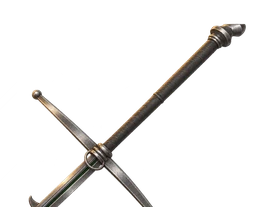
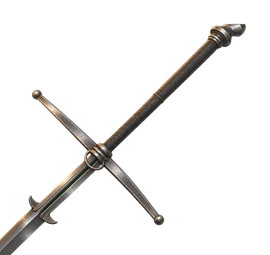
Painted pictures of our own parts on the part cards; taller type cards
- Every part card (blades, guards, grips, pommels, steel finishes and the
  Messer's caps) now shows that part alone, rendered from our own 3D
  model and painted in the style of the type cards. Guards are drawn per
  sword type. Grips and steel finishes are close-ups of the material;
  blades run out through the card's top-right corner with the point
  inside. They replace the line-drawn silhouettes.
- A dev-only part studio (?studio, not in the production build) renders
  each part alone for these pictures.
- Type cards are 16 px taller, so more of each sword shows; the camera
  leaves room for the taller row.

Changed region(s): [[0.0, 0.087, 0.9185, 1.0]]

diff --git a/src/components/forge/choices.tsx b/src/components/forge/choices.tsx
@@ -7,7 +7,7 @@ import { bladeSpec, profileSpec } from '../../lib/bladeSpec';
 import { POMMEL_FORM } from '../../presets/pommelProfiles';
 import { GUARDS_BY_TYPE } from '../../presets/guardShapes';
 import { HILT_OPTIONS, defaultTerminal, hiltSpec } from '../../lib/hilt';
-import { BladeSilhouette, CapSilhouette, GripSwatch, GuardSilhouette, PommelSilhouette, SteelSwatch } from './Silhouettes';
+import { PartArt } from './PartArt';
 
 // The choices offered at each station, as one model shared by the chooser, the inspector and the keyboard.
 
@@ -34,7 +34,7 @@ export function useStationChoices(station: StationId | null): StationChoices | n
   if (station === 'blade') {
     const profiles = profilesOf(config);
     cards = profiles.map((p) => ({ id: p.id, name: p.name, era: p.era, period: true, off: null, selected: (config.blade.profile ?? profiles[0].id) === p.id, note: p.note,
-      art: <BladeSilhouette archetype={arch} profile={p} />, apply: () => update('blade', profileBlade(p)) }));
+      art: <PartArt name={`blade-${arch}-${p.id}`} />, apply: () => update('blade', profileBlade(p)) }));
     // Options on top of the profile. A choice equal to the profile's own is stored as "not changed",
     // so the Form still reads as itself.
     const spec = bladeSpec(config), profile = currentProfile(config), own = profile ? profileSpec(arch, profile) : spec;
@@ -81,13 +81,13 @@ export function useStationChoices(station: StationId | null): StationChoices | n
       if (cur !== 'none') extraNote = `${extraNote} ${WIRE_INLAYS.find((w) => w.id === cur)?.note ?? ''}`.trim();
     }
     engraving('guard', !!config.guard.engraved);
-    cards = GUARDS.filter((g) => GUARDS_BY_TYPE[arch].includes(g.id)).sort((a, b) => GUARDS_BY_TYPE[arch].indexOf(a.id) - GUARDS_BY_TYPE[arch].indexOf(b.id)).map((g) => ({ ...g, period: ofForm(g, form?.guard), off: off(g, form?.guard), selected: config.guard.style === g.id, art: <GuardSilhouette archetype={arch} style={g.id} />, apply: () => update('guard', { style: g.id }) }));
+    cards = GUARDS.filter((g) => GUARDS_BY_TYPE[arch].includes(g.id)).sort((a, b) => GUARDS_BY_TYPE[arch].indexOf(a.id) - GUARDS_BY_TYPE[arch].indexOf(b.id)).map((g) => ({ ...g, period: ofForm(g, form?.guard), off: off(g, form?.guard), selected: config.guard.style === g.id, art: <PartArt name={`guard-${arch}-${g.id}`} />, apply: () => update('guard', { style: g.id }) }));
   }
   if (station === 'pommel' && config.grip.hilt === 'messer') {
     // A Messer has a cap over the grip's end instead of a pommel.
     const own = form?.cap ?? 'beak', cur = config.grip.cap ?? 'beak';
     cards = MESSER_CAPS.map((m) => ({ ...m, period: m.id === own || ofAge(m.years), off: form ? periodNote(m, form, own) : null, selected: cur === m.id,
-      art: <CapSilhouette cap={m.id} />, apply: () => update('grip', { cap: m.id === 'beak' ? undefined : m.id }) }));
+      art: <PartArt name={`cap-${m.id}`} />, apply: () => update('grip', { cap: m.id === 'beak' ? undefined : m.id }) }));
   } else if (station === 'pommel') {
     if (POMMEL_FORM[config.pommel.style].axis === 'z') {
       // The face: plain, engraved, or engraved with its cuts filled with enamel.
@@ -96,11 +96,11 @@ export function useStationChoices(station: StationId | null): StationChoices | n
         apply: () => update('pommel', { engraved: id === 'plain' ? undefined : true, enamel: id === 'azure' || id === 'gules' ? id : undefined }) })) });
       if (p.enamel) extraNote = `${extraNote} ${ENAMEL_NOTE}`.trim();
     }
-    cards = POMMELS.map((g) => ({ ...g, period: ofForm(g, form?.pommel), off: off(g, form?.pommel), selected: config.pommel.style === g.id, art: <PommelSilhouette style={g.id} />, apply: () => update('pommel', { style: g.id }) }));
+    cards = POMMELS.map((g) => ({ ...g, period: ofForm(g, form?.pommel), off: off(g, form?.pommel), selected: config.pommel.style === g.id, art: <PartArt name={`pommel-${g.id}`} />, apply: () => update('pommel', { style: g.id }) }));
   }
   if (station === 'grip') {
     // A Messer's grip is wooden scales, bare or leather-covered.
-    cards = GRIPS.filter((g) => config.grip.hilt !== 'messer' || g.id === 'wood' || g.id === 'leather').map((g) => ({ ...g, period: ofForm(g, form?.grip), off: off(g, form?.grip), selected: config.finish.gripMaterial === g.id, art: <GripSwatch material={g.id} color={config.finish.gripColor} />, apply: () => update('finish', { gripMaterial: g.id }) }));
+    cards = GRIPS.filter((g) => config.grip.hilt !== 'messer' || g.id === 'wood' || g.id === 'leather').map((g) => ({ ...g, period: ofForm(g, form?.grip), off: off(g, form?.grip), selected: config.finish.gripMaterial === g.id, art: <PartArt name={`grip-${g.id}`} bleed />, apply: () => update('finish', { gripMaterial: g.id }) }));
     // Falchion: a sword hilt or the Messer's knife hilt.
     if (arch === 'falchion') {
       const knife = config.grip.hilt === 'messer';
@@ -118,7 +118,7 @@ export function useStationChoices(station: StationId | null): StationChoices | n
     if (config.finish.gripMaterial === 'leather' || config.finish.gripMaterial === 'cord') rows.push({ label: 'Dye', kind: 'dots', items: DYES.map((d) => ({ id: d.id, name: d.name, swatch: d.color ?? natural, selected: (d.color ?? natural).toLowerCase() === current, apply: () => update('finish', { gripColor: d.color ?? preset.defaults.finish.gripColor }) })) });
   }
   if (station === 'finish') {
-    cards = STEELS.map((s) => ({ ...s, period: ofForm(s, form?.steel), off: off(s, form?.steel), selected: config.finish.steelFinish === s.id, art: <SteelSwatch finish={s.id} />, apply: () => update('finish', { steelFinish: s.id }) }));
+    cards = STEELS.map((s) => ({ ...s, period: ofForm(s, form?.steel), off: off(s, form?.steel), selected: config.finish.steelFinish === s.id, art: <PartArt name={`steel-${s.id}`} bleed />, apply: () => update('finish', { steelFinish: s.id }) }));
     rows.push({ label: 'Fittings', kind: 'dots', items: FITTINGS.map((f) => ({ id: f.id, name: f.name, swatch: f.swatch, selected: config.finish.hardwareTone === f.id, apply: () => update('finish', { hardwareTone: f.id }) })) });
     rows.push({ label: 'Age', kind: 'age', value: config.finish.age, set: (v: number) => update('finish', { age: v }), items: [] });
   }

diff --git a/src/dev/PartStudio.tsx b/src/dev/PartStudio.tsx
@@ -1,0 +1,62 @@
+import { useEffect, useLayoutEffect, useRef, useState } from 'react';
+import { Canvas, useThree } from '@react-three/fiber';
+import { Environment } from '@react-three/drei';
+import * as THREE from 'three';
+import { Sword, type SwordPart } from '../components/scene/Sword';
+import { Lighting } from '../components/scene/Lighting';
+import { useConfigStore } from '../store/configStore';
+import { GUARDS_BY_TYPE } from '../presets/guardShapes';
+import { GRIPS, MESSER_CAPS, POMMELS, STEELS } from '../presets/forge';
+import { profileBlade, profilesOf } from '../lib/forms';
+import { bladeSpec } from '../lib/bladeSpec';
+
+// Dev only (?studio): one part of the sword alone on a transparent background, framed to fill the view,
+// for rendering the part-option cards. Driven from the console / CDP through window.__studio.
+// The guard tilts about its own bar first (Euler ZYX), so its curve in plan reads; long parts run on the
+// diagonal of the type cards, the hilt end to the upper right.
+const VIEW: Record<SwordPart, [number, number, number]> = {
+  guard: [0.95, 0, 0.62], pommel: [0.22, -0.55, -0.18], grip: [0.15, -0.35, 3 * Math.PI / 4], blade: [0.45, 0, 3 * Math.PI / 4],
+};
+// A blade is up to ~30× longer than wide; on a square card its outline is widened so the profile reads,
+// narrow blades more than broad ones (shown width/length ≈ 0.38·r^0.4), so the order of widths is kept.
+function bladeStretch(width: number, length: number): [number, number, number] {
+  const r = width / length, s = Math.min(3, Math.max(1, 0.38 * r ** 0.4 / r));
+  return [s, 1, 1 + (s - 1) * 0.15];
+}
+
+function Framed({ part, tick }: { part: SwordPart; tick: number }) {
+  const spec = bladeSpec(useConfigStore((s) => s.config));
+  const holder = useRef<THREE.Group>(null), inner = useRef<THREE.Group>(null);
+  const { camera, invalidate } = useThree();
+  useLayoutEffect(() => {
+    const id = requestAnimationFrame(() => {
+      const h = holder.current, g = inner.current; if (!h || !g) return;
+      g.position.set(0, 0, 0); h.updateMatrixWorld(true);
+      const box = new THREE.Box3().setFromObject(g), c = box.getCenter(new THREE.Vector3()), size = box.getSize(new THREE.Vector3());
+      g.position.sub(c.clone().applyMatrix4(h.matrixWorld.clone().invert()));
+      const r = Math.max(size.x, size.y) / 2 * 1.08, fov = THREE.MathUtils.degToRad((camera as THREE.PerspectiveCamera).fov / 2);
+      camera.position.set(0, 0, r / Math.tan(fov) + size.z); camera.lookAt(0, 0, 0); camera.updateProjectionMatrix();
+      invalidate();
+    });
+    return () => cancelAnimationFrame(id);
+  });
+  return (
+    <group ref={holder} rotation={new THREE.Euler(...((window as unknown as { __view?: Record<string, [number, number, number]> }).__view?.[part] ?? VIEW[part]), part === 'guard' ? 'ZYX' : 'XYZ')}>
+      <group ref={inner} key={tick}><group scale={part === 'blade' ? bladeStretch(spec.halfWidth * 2, spec.length) : [1, 1, 1]}><Sword only={part} /></group></group>
+    </group>
+  );
+}
+
+export default function PartStudio() {
+  const [part, setPart] = useState<SwordPart>('guard');
+  const [tick, setTick] = useState(0);
+  useEffect(() => { Object.assign(window, { __studio: { setPart, store: useConfigStore, refit: () => setTick((t) => t + 1), lib: { GUARDS_BY_TYPE, POMMELS, STEELS, GRIPS, MESSER_CAPS, profilesOf, profileBlade } } }); }, []);
+  return (
+    <Canvas gl={{ alpha: true, antialias: true, preserveDrawingBuffer: true }} dpr={2} camera={{ fov: 22, position: [0, 0, 1] }}
+      style={{ position: 'fixed', inset: 0, background: 'transparent' }}>
+      <Environment files={`${import.meta.env.BASE_URL}hdri/studio_small_03_2k.hdr`} environmentIntensity={1.18} />
+      <Lighting inspect />
+      <Framed part={part} tick={tick} />
+    </Canvas>
+  );
+}

diff --git a/src/components/forge/forge.css b/src/components/forge/forge.css
@@ -100,6 +100,9 @@
 .forge .item { min-width: 84px; padding: 0 2px; text-align: center; }
 .forge .item .card { position: relative; width: 72px; height: 72px; margin: 0 auto; border-radius: 6px; display: grid; place-items: center; transition: transform 160ms var(--ease-out), border-color 160ms, box-shadow 200ms; color: var(--gold-hi); }
 .forge .item .card svg { width: 64px; height: 64px; }
+/* Painted part pictures; a close-up (grips, steel finishes) runs to the card's edges, inside its rounded border. */
+.forge .item .card .part-art { width: 66px; height: 66px; object-fit: contain; filter: drop-shadow(0 2px 3px rgba(0, 0, 0, .45)); pointer-events: none; }
+.forge .item .card .part-art.bleed { position: absolute; inset: 1px; width: calc(100% - 2px); height: calc(100% - 2px); object-fit: cover; border-radius: 5px; filter: none; }
 .forge .item .nm { display: block; margin-top: 7px; font: var(--type-label-sm); letter-spacing: var(--track-label); color: var(--gold); text-shadow: 0 1px 6px rgba(0, 0, 0, .8); white-space: nowrap; }
 .forge .item:hover .card { transform: translateY(-2px); }
 .forge .item:active .card { transform: scale(.97); transition-duration: 70ms; }
@@ -191,9 +194,9 @@
 .forge.focus .arch { transform: translateX(-50%) translateY(16px); }
 /* Type cards: square glass with the sword on a diagonal (pommel, grip, guard and the top of the blade),
    the name on a brass plate that forms the card's base. */
-.forge .tcard { box-sizing: border-box; width: 92px; height: 92px; padding: 0; border-radius: 6px; display: flex; flex-direction: column; align-items: center; justify-content: flex-end; transition: transform 150ms var(--ease-out); }
-/* The picture is made to the box above the plate (90×69): air above and right of the pommel, the blade
-   running out through the bottom-left corner. */
+.forge .tcard { box-sizing: border-box; width: 92px; height: 108px; padding: 0; border-radius: 6px; display: flex; flex-direction: column; align-items: center; justify-content: flex-end; transition: transform 150ms var(--ease-out); }
+/* The picture is made to the box above the plate (90×85): the same air above and right of the sword,
+   the blade running out through the bottom edge. */
 .forge .tcard img { position: absolute; left: 1px; right: 1px; top: 1px; bottom: 22px; width: calc(100% - 2px); height: calc(100% - 23px); object-fit: fill; border-radius: 5px 5px 0 0; filter: drop-shadow(0 2px 4px rgba(0, 0, 0, .5)); }
 /* The plate runs flush to the card's edges, over its border, as the card's base. */
 .forge .tcard .plate { position: relative; width: calc(100% + 2px); flex: none; margin: 0 -1px -1px; padding: 5px 4px 4px; border-radius: 0 0 6px 6px; text-align: center; white-space: nowrap; font: var(--type-label-sm); letter-spacing: .03em; text-transform: uppercase; color: #1a1007;

diff --git a/src/components/scene/Sword.tsx b/src/components/scene/Sword.tsx
@@ -16,7 +16,10 @@ import { Pommel } from './Pommel';
 import { MesserHilt } from './MesserHilt';
 import { Beat } from './Beat';
 
-export function Sword() {
+// `only` (dev part studio): draw one part alone, for rendering the part cards.
+export type SwordPart = 'blade' | 'guard' | 'grip' | 'pommel';
+export function Sword({ only }: { only?: SwordPart } = {}) {
+  const show = (p: SwordPart) => !only || only === p;
   const config = useConfigStore((s) => s.config);
   const spec = bladeSpec(config);
   const hilt = hiltSpec(config);
@@ -36,12 +39,12 @@ export function Sword() {
   return (
     <group>
       {/* A single-edged blade turns its edge to face the same way as the curved guards and the swell. */}
-      <group position={[0, bladeY, 0]} rotation={[0, spec.singleEdged ? Math.PI : 0, 0]}>
+      {show('blade') && <group position={[0, bladeY, 0]} rotation={[0, spec.singleEdged ? Math.PI : 0, 0]}>
         <Beat scope={config.archetype} k={`${config.blade.profile}|${spec.section}|${spec.ricasso?.cover ?? ''}|${spec.flame}`}>
           <Blade spec={spec} color={materials.blade.color} steelFinish={steelFinish} age={age} ecusson={hilt.ecusson} />
         </Beat>
-      </group>
-      <Beat scope={config.archetype} k={`${config.guard.style}|${hilt.terminal}|${hilt.rings}|${hilt.ecusson}`}>
+      </group>}
+      {show('guard') && <Beat scope={config.archetype} k={`${config.guard.style}|${hilt.terminal}|${hilt.rings}|${hilt.ecusson}`}>
       <Crossguard
         cm={config.guard.cm}
         wire={config.archetype === 'vikingSword' ? config.guard.wire : undefined}
@@ -56,8 +59,8 @@ export function Sword() {
         roughness={materials.hardware.roughness}
         position={[0, guardY, 0]}
       />
-      </Beat>
-      <HiltDetails
+      </Beat>}
+      {!only && <HiltDetails
         ferrules={!messer}
         tone={config.finish.hardwareTone}
         archetype={config.archetype}
@@ -68,8 +71,8 @@ export function Sword() {
         guardY={guardY}
         gripTopY={gripTopY}
         gripBottomY={gripBottomY}
-      />
-      {messer ? (
+      />}
+      {(!only || only === 'grip') && (messer ? (
         <MesserHilt
           gripTopY={gripTopY}
           gripBottomY={gripBottomY}
@@ -93,8 +96,8 @@ export function Sword() {
         position={[0, gripY, 0]}
       />
       </Beat>
-      )}
-{!messer && (
+      ))}
+{!messer && show('pommel') && (
       <Beat scope={config.archetype} k={config.pommel.style}>
       <Pommel
         engraved={config.pommel.engraved}

diff --git a/src/components/scene/Scene.tsx b/src/components/scene/Scene.tsx
@@ -47,7 +47,8 @@ type Panels = { top: number; bottom: number; right: number };
 // Must match forge.css: on phones (≤ 700 px) the type row is smaller, and in edit mode a sheet at the bottom
 // holds the choices (see PhoneSheet); formerly the inspector spanned the top of the screen (at most 42% of it) instead of the right side.
 const PHONE = 700;
-const overviewPanels = (w: number): Panels => ({ top: 110, bottom: w <= PHONE ? 120 : 140, right: 0 });
+// The bottom inset clears the row of type cards (108 px tall; 0.8× on phones).
+const overviewPanels = (w: number): Panels => ({ top: 110, bottom: w <= PHONE ? 133 : 156, right: 0 });
 // The phone sheet's height (set from the store before each framing; the bar with Done sits below it).
 let phoneSheetPx = 200;
 const editPanels = (w: number, h: number): Panels => (w <= PHONE ? { top: Math.round(h * 0.03), bottom: phoneSheetPx + 80, right: 0 } : { top: MARGIN_TOP, bottom: PANEL_BOTTOM, right: PANEL_RIGHT });

diff --git a/src/App.tsx b/src/App.tsx
@@ -16,7 +16,12 @@ const scenePromise = import('./components/scene/Scene').catch((err) => {
   throw err;
 });
 
+// Dev only: ?studio renders one sword part alone, for the part cards (see src/dev/PartStudio.tsx).
+const STUDIO = import.meta.env.DEV && new URLSearchParams(location.search).has('studio');
+
 export default function App() {
+  const [Studio, setStudio] = useState<ComponentType | null>(null);
+  useEffect(() => { if (STUDIO) import('./dev/PartStudio').then((m) => setStudio(() => m.default)); }, []);
   const [Scene, setScene] = useState<ComponentType | null>(null);
 
   useEffect(() => {
@@ -30,5 +35,6 @@ export default function App() {
     };
   }, []);
 
+  if (STUDIO) return Studio ? <Studio /> : null;
   return <AppShell>{Scene && <SceneBoundary><Scene /></SceneBoundary>}</AppShell>;
 }

diff --git a/src/components/forge/PartArt.tsx b/src/components/forge/PartArt.tsx
@@ -1,0 +1,7 @@
+// A part card's picture: the part rendered alone by our own engine and painted in the type cards' style
+// (public/parts/<name>.webp). Grips and steel finishes are close-ups of the material, so they fill the card.
+const BASE = import.meta.env.BASE_URL;
+
+export function PartArt({ name, bleed = false }: { name: string; bleed?: boolean }) {
+  return <img className={bleed ? 'part-art bleed' : 'part-art'} src={`${BASE}parts/${name}.webp`} alt="" loading="lazy" decoding="async" draggable={false} />;
+}
